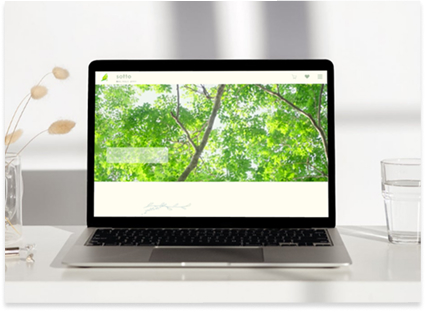
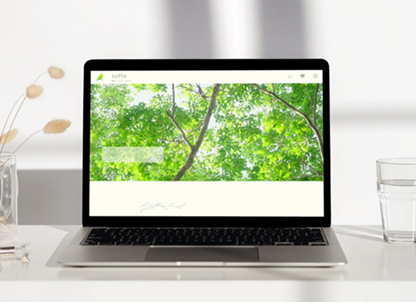
セクションスタイルを改善し、タイトルのスタイルを追加。作品ボックスのレイアウトを調整。画像ファイルを更新。

diff --git a/css/style.scss b/css/style.scss
@@ -90,9 +90,48 @@ body {
     sections
 ================================================== */
 
-.section__title {
+.section {
+    text-align: center;
     
+
+    &__title {
+        width: 450px;
+        height: 90px;
+        margin: clamp(50px, 6.66vw, 80px) auto;
+        font-size: 3rem;
+        letter-spacing: 8%;
+        border: 2px dashed;
+        display: flex;
+        justify-content: center;
+        align-items: center;
+
+        &--red {
+            border-color: #C89A8B;
+        }
+
+        &--blue {
+            border-color: #61769A;
+        }
+
+        &--navy {
+            border-color: #293C6C;
+        }
+
+        &--yellow {
+            border-color: #C7A54A;
+        }
+    }
 }
+
+.works-box  {
+    display: flex;
+
+    &__title {
+        font-size: 1.25rem;
+    }
+}
+
+    
 
 /* ==================================================
     header （ヘッダー）
